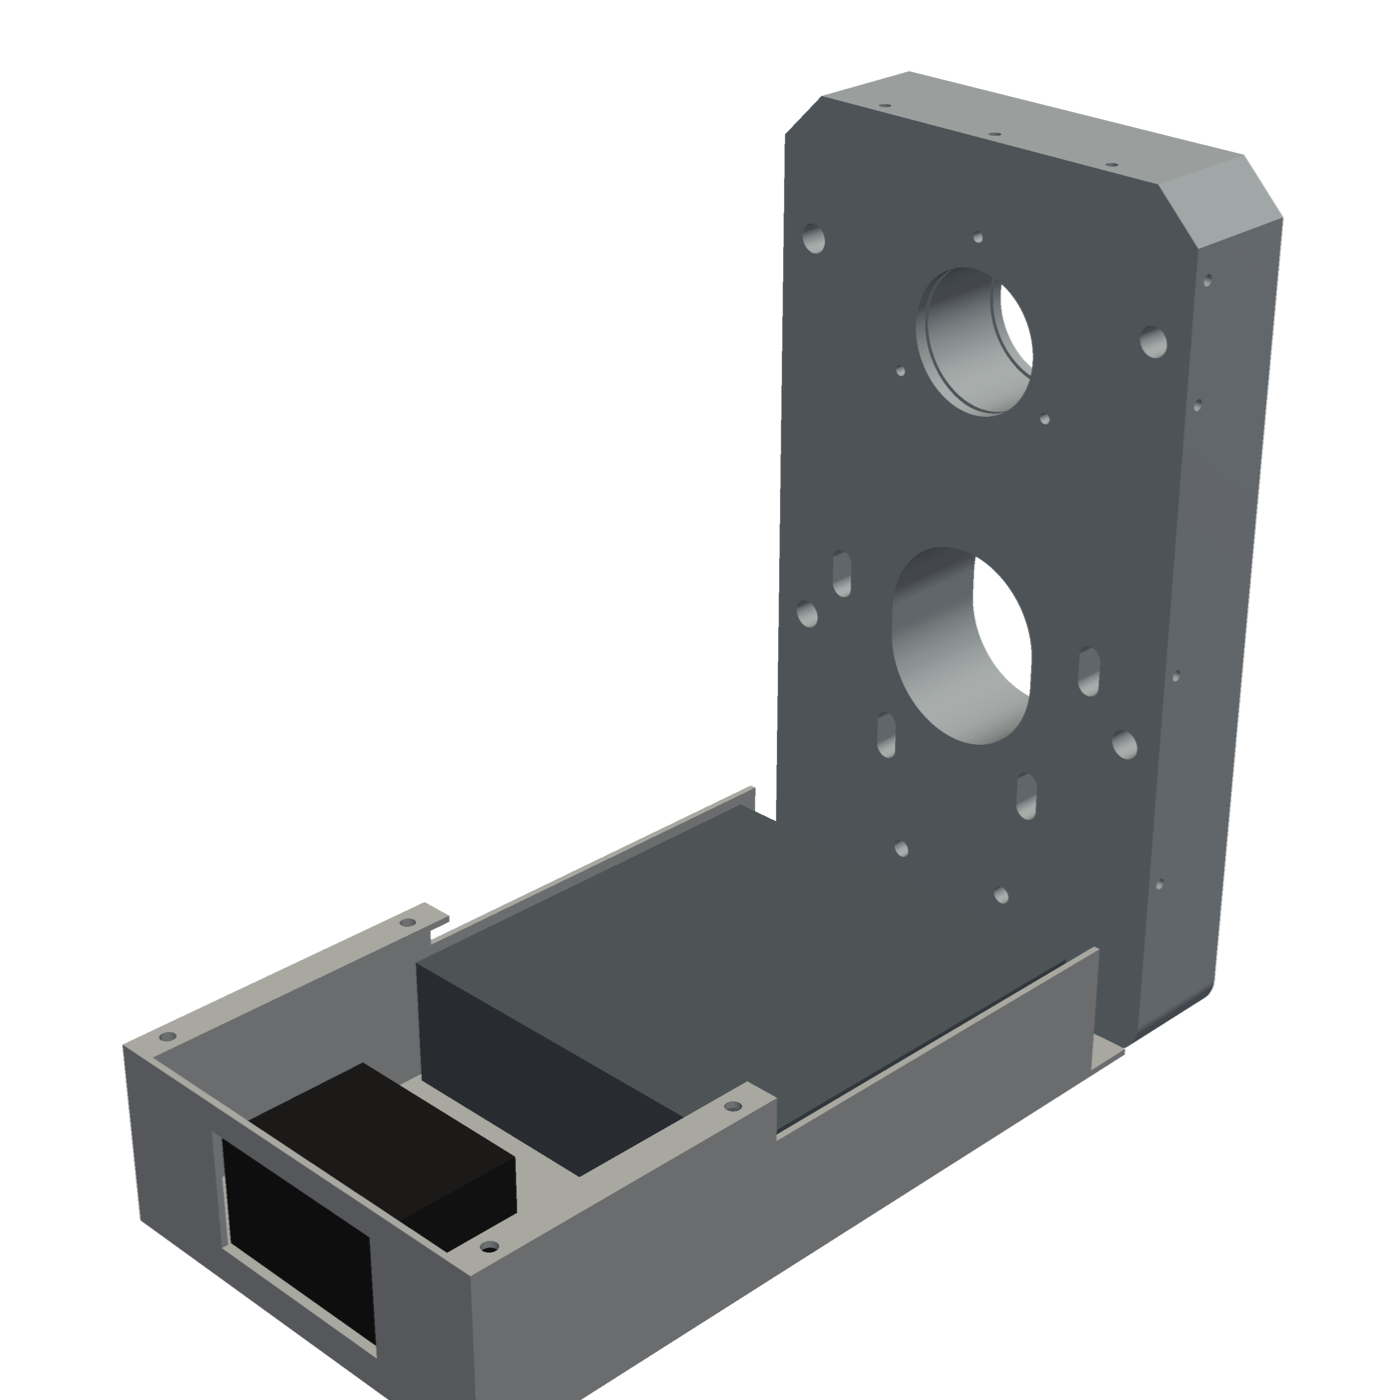
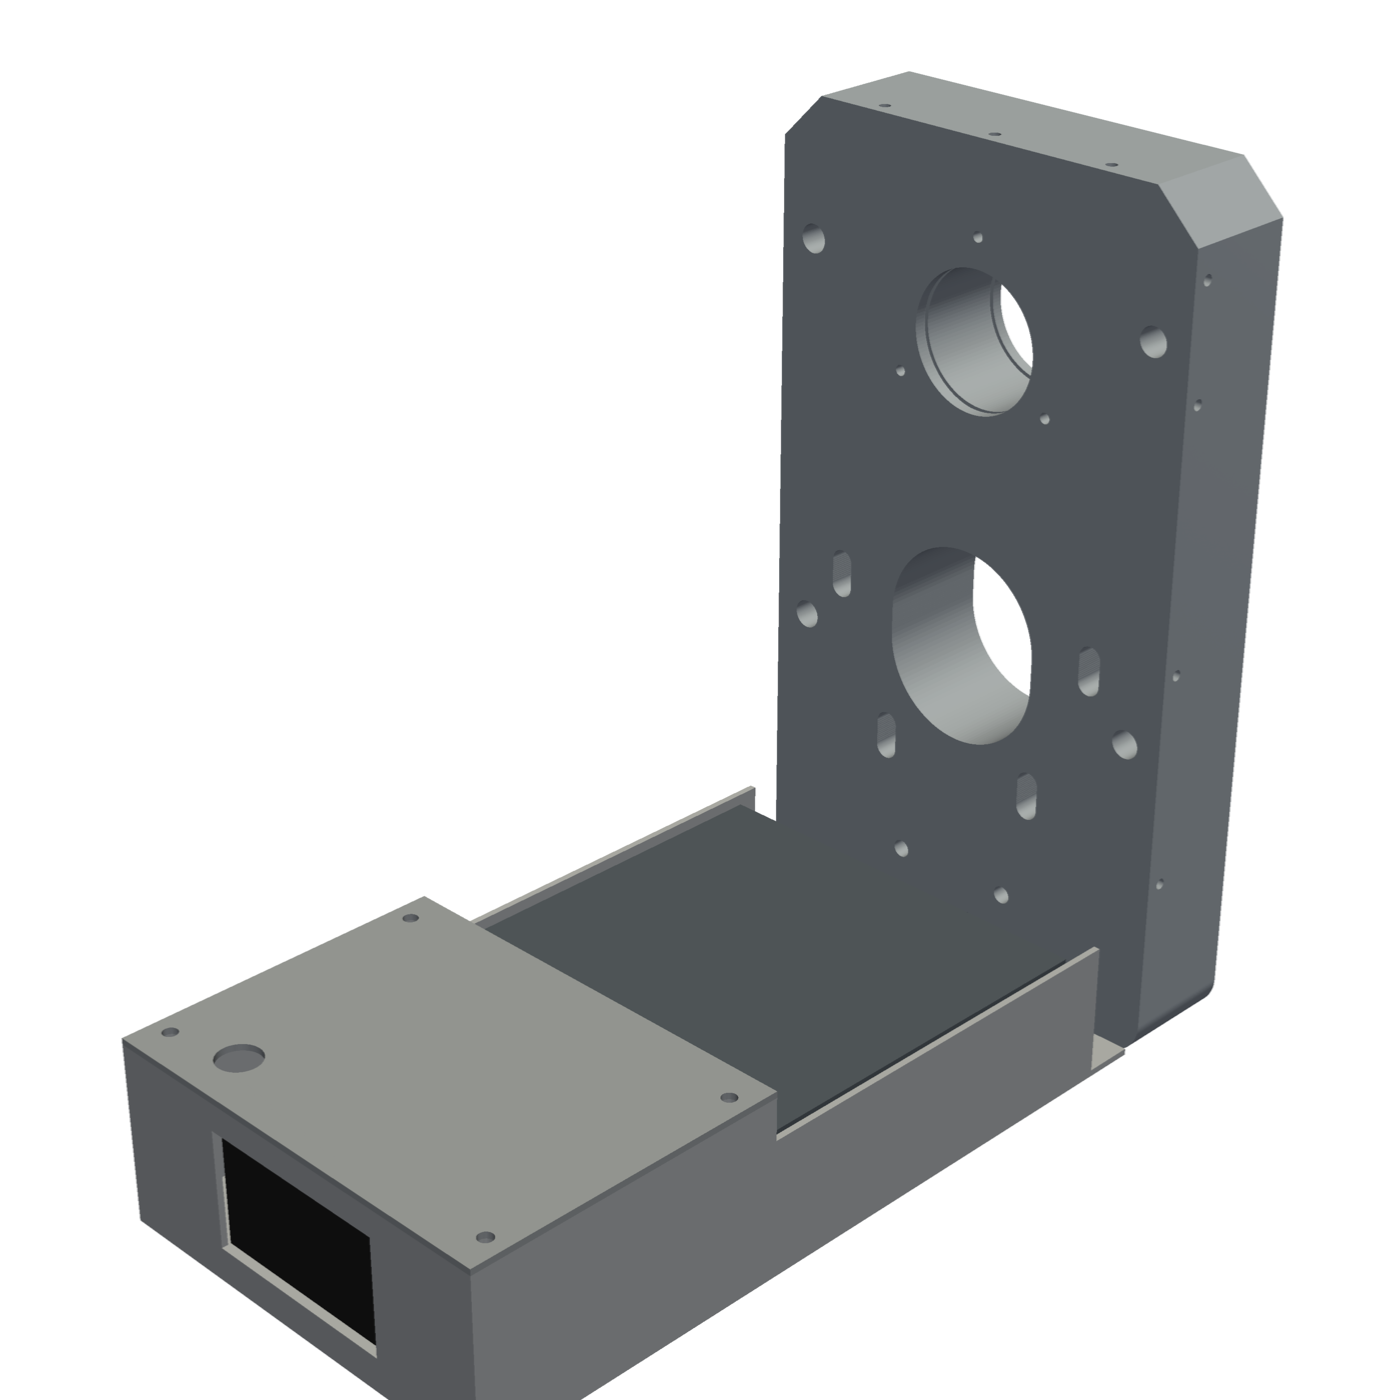
Mains tray: shell slides on over the PSU screw heads (groove), terminal zone closed toward the PSU
- Floor pockets -> one 7 mm groove along W open to the shell's rim; ribs 0.3 below the tray
- Lid's plate-side edge folded down to just above the PSU (closes the 101 x 10 window); wall flanges 10 mm for
  closed-end M3 rivnuts, starting past the fold
- check_feed_unit.py: shell slide-on sweep 0..200 mm against tray/PSU/module/screw heads, closure of the raised
  zone toward the PSU, mains-zone intrusion box up to the raised lid

Changed region(s): [[0.0921, 0.645, 0.5529, 0.9214]]

diff --git a/mechanical/feed_unit/feed_unit.py b/mechanical/feed_unit/feed_unit.py
@@ -383,6 +383,8 @@ R_IN = f.r_long - T                                 # inside radius of the long 
 R_BOTTOM = 8.5                                      # the two bottom long edges: tighter, so the mains tray fits the corners
 W_END_SCREW = W_END - f.r_end - 4.0                 # end hood screws: countersunk heads fully on the flat, not the chamfer
 TERM_TOP = TRAY_TOP + f.term_zone_rise     # tray top over the terminal/inlet zone (the motor is >= 7 mm above)
+TERM_W0 = f.psu_w0 + f.psu_l - 6           # where the raised terminal/inlet zone starts (over the PSU's terminal end)
+LID_FLANGE = 10.0                          # inward-folded wall flanges carrying the lid's M3 rivnuts
 INLET_Y = (PSU_BOT + TERM_TOP) / 2         # IEC inlet centre, in the tray's end face
 TRAY_HALF = f.psu_w / 2 + f.tray_side_gap + f.tray_t
 TRAY_W1 = W_END - f.r_end - 1.0   # tray end face (inlet panel): clear of the shell's inside end chamfer; the inlet
@@ -479,14 +481,14 @@ def mains_tray():
     the 36 V leads leave, through a grommet in the lid. No vents in the floor."""
     t, hw = f.tray_t, TRAY_HALF
     w0 = Z_PLATE_OUT
-    wz = f.psu_w0 + f.psu_l - 6                      # start of the raised terminal/inlet zone
+    wz = TERM_W0                                      # start of the raised terminal/inlet zone
     floor = bx(-hw, hw, TRAY_BOT, TRAY_BOT + t, w0, TRAY_W1)
     walls = None
     for sx in (-1, 1):
         x0, x1 = (-hw, -hw + t) if sx < 0 else (hw - t, hw)
         wall = bx(x0, x1, TRAY_BOT, TRAY_TOP, TRAY_WALL_W0, wz) + bx(x0, x1, TRAY_BOT, TERM_TOP, wz, TRAY_W1)
-        lx0, lx1 = (-hw, -hw + 8) if sx < 0 else (hw - 8, hw)          # flange folded inward at the top (lid screws)
-        lip = bx(lx0, lx1, TERM_TOP - t, TERM_TOP, wz, TRAY_W1 - t)
+        lx0, lx1 = (-hw, -hw + LID_FLANGE) if sx < 0 else (hw - LID_FLANGE, hw)   # folded inward at the top (lid screws)
+        lip = bx(lx0, lx1, TERM_TOP - t, TERM_TOP, wz + t, TRAY_W1 - t)   # starts past the lid's folded-down edge
         walls = wall + lip if walls is None else walls + wall + lip
     end = bx(-hw, hw, TRAY_BOT, TERM_TOP, TRAY_W1 - t, TRAY_W1)
     tray = floor + walls + end
@@ -498,12 +500,14 @@ def mains_tray():
     tray = tray - ycyl(6.0, TRAY_BOT - 1, TRAY_BOT + t + 1, MX, Z_PLATE_OUT + 4)    # drawbolt access (outside the walls)
     for xp, wp in psu_screws():                      # PSU base screws: M3 x 4 button head (ISO 7380) from below
         tray = tray - ycyl(1.7, TRAY_BOT - 1, TRAY_BOT + t + 1, xp, wp)
-    for xs in (-hw + 4, hw - 4):                     # lid screws: M3 into rivnuts in the folded lid flanges
+    for xs in (-hw + LID_FLANGE / 2, hw - LID_FLANGE / 2):   # lid screws: M3 into closed-end rivnuts in the flanges
         for ws in (wz + 8, TRAY_W1 - 8):
             tray = tray - ycyl(1.7, TERM_TOP - t - 1, TERM_TOP + 1, xs, ws)
     lid = bx(-hw, hw, TERM_TOP, TERM_TOP + t, wz, TRAY_W1)
+    # its -W edge is folded down to just above the PSU: closes the step between the low and the raised part
+    lid = lid + bx(-hw + t, hw - t, TRAY_TOP, TERM_TOP + t, wz, wz + t)
     lid = lid - ycyl(5.0, TERM_TOP - 1, TERM_TOP + t + 1, GROMMET[0], GROMMET[1])
-    for xs in (-hw + 4, hw - 4):
+    for xs in (-hw + LID_FLANGE / 2, hw - LID_FLANGE / 2):
         for ws in (wz + 8, TRAY_W1 - 8):
             lid = lid - ycyl(1.7, TERM_TOP - 1, TERM_TOP + t + 1, xs, ws)
     return tray, lid
@@ -676,9 +680,11 @@ def shell():
     fw, fh = f.inlet_flange
     s = s - bx(-fw / 2 - 1, fw / 2 + 1, INLET_Y - fh / 2 - 1, INLET_Y + fh / 2 + 1, W_END - T - 1, W_END + 1)
     for xr_ in (-30.0, 30.0):
-        s = s + bx(xr_ - 1.5, xr_ + 1.5, Y0 - G - 0.5, TRAY_BOT, TRAY_W1 - 60, TRAY_W1 - 6)
-    for xp, wp in psu_screws():                      # pockets for the PSU's M3 button heads under the tray floor
-        s = s - ycyl(3.5, Y0 - G - 1.5, Y0 + 0.1, xp, wp)
+        s = s + bx(xr_ - 1.5, xr_ + 1.5, Y0 - G - 0.5, TRAY_BOT - 0.3, TRAY_W1 - 60, TRAY_W1 - 6)
+    # groove for the PSU's M3 button heads under the tray floor, open to the shell's rim: the heads run along it
+    # while the shell slides on over the (already bolted) tray
+    xg = psu_screws()[0][0]
+    s = s - bx(xg - 3.5, xg + 3.5, Y0 - G - 1.5, Y0 + 0.1, W_SHELL0 - 1, max(w for _, w in psu_screws()) + 4)
     for xd in (-15.0, 15.0):                         # drains: coolant that gets in behind the inlet runs out
         s = s - ycyl(2.0, Y0 - T - 8, Y0 + 6, xd, W_END - T - 2.5)
     # programming ports, usable with the box closed (above the plugs, clear of the end rails):
@@ -940,14 +946,15 @@ strip along the upper front with their bodies reaching back over the PCB.
   1050/5052 sheet: floor, two side walls with inward-folded lid flanges over the terminal zone, end face, and two tabs
   bent up against the plate). Fold drawing: `out/mains_tray.step` (+ `mains_tray_lid.step`). It holds:
   - a Mean Well **LRS-75-36** (36 V / 2.1 A, 99 × 97 × 30, case 240A), screwed through the tray floor into its two
-    base holes: **M3 × 4 button head (ISO 7380)** — the case allows 3 mm of thread, the tray is 1.5 — whose heads sit in
-    Ø7 pockets in the printed floor. Terminals 1 L, 2 N, 3 FG, 4 −V, 5 +V, toward the inlet;
+    base holes: **M3 × 4 button head (ISO 7380)** — the case allows 3 mm of thread, the tray is 1.5 — whose heads run in
+    a 7 mm groove in the printed floor (open to the shell's rim, so the shell slides on over them). Terminals 1 L, 2 N, 3 FG, 4 −V, 5 +V, toward the inlet;
   - a **snap-in IEC C14 inlet with fuse and rocker switch** clipped into the tray's end face (cut-out
     {f.inlet_cut[0]} × {f.inlet_cut[1]}; pick one rated for a 1–2 mm panel). It sits 9 mm behind the printed end wall's opening, so
     coolant running down the end wall doesn't reach it. Fit an IEC retaining clip (V-lock or a wire bail) so the cord
     can't half-unplug on a vibrating table;
-  - a separate aluminium **lid** over the terminal/inlet zone: 4× M3 into M3 rivnuts (or press nuts) in the walls'
-    folded flanges; the screws also bond the lid to the tray. A Ø10 grommet in it: the **only** thing that leaves the
+  - a separate aluminium **lid** over the terminal/inlet zone, its plate-side edge folded down to just above the PSU
+    (so the zone is closed all round): 4× M3 into **closed-end** M3 rivnuts in the walls' 10 mm folded flanges (no
+    screw tips inside the mains zone); the screws also bond the lid to the tray. A Ø10 grommet in it: the **only** thing that leaves the
     tray is the 36 V pair (1 mm², 300/500 V insulation since it runs inside the mains tray, to J1).
   - **Fixing and earth:** the tray's two tabs bolt to the plate's outer face (2× M4 into tapped holes; checked against
     every other hole in the plate): that holds it

diff --git a/mechanical/tools/check_feed_unit.py b/mechanical/tools/check_feed_unit.py
@@ -114,7 +114,8 @@ print("  insert seats checked: %d" % sum(1 for j in FU.screw_joints() if j[4] ==
 # mains separation: nothing but the PSU and the inlet may enter the earthed tray's inside, and the wiring zone
 # between the PSU terminals and the inlet body (>= 35 mm) must be empty
 t, hw = FU.f.tray_t, FU.TRAY_HALF
-inside = FU.bx(-hw + t, hw - t, FU.TRAY_BOT + t, FU.TRAY_TOP, FU.TRAY_WALL_W0, FU.TRAY_W1 - t)   # the walled part
+inside = FU.bx(-hw + t, hw - t, FU.TRAY_BOT + t, FU.TRAY_TOP, FU.TRAY_WALL_W0, FU.TRAY_W1 - t) + \
+    FU.bx(-hw + t, hw - t, FU.TRAY_TOP, FU.TERM_TOP, FU.TERM_W0, FU.TRAY_W1 - t)                     # + raised zone
 mains_ok = ("mains_tray", "mains_tray_lid", "psu", "mains_inlet", "shell", "plate")
 for n in parts:
     if n in mains_ok or n.startswith("control_"):
@@ -167,6 +168,27 @@ m_top = (FU.TERM_TOP - t_) - (FU.INLET_Y + fh / 2)
 print("  inlet flange flat margin: bottom %.1f, top %.1f mm (need >= %.1f)" % (m_low, m_top, t_ + 1.5))
 if min(m_low, m_top) < t_ + 1.5:
     bad += 1
+# the raised terminal zone must be closed toward the PSU (lid's folded edge): the window between TRAY_TOP and TERM_TOP
+# at TERM_W0 must be >= 95 % metal
+win = FU.bx(-hw + t, hw - t, FU.TRAY_TOP, FU.TERM_TOP, FU.TERM_W0, FU.TERM_W0 + t)
+cov = (getattr(win & parts["mains_tray_lid"], "volume", 0) or 0) + (getattr(win & parts["mains_tray"], "volume", 0) or 0)
+print("  mains zone closed toward the PSU: %.0f %% metal" % (100 * cov / win.volume))
+if cov / win.volume < 0.95:
+    bad += 1
+# slide-on: the shell goes on along -W over the bolted tray, module and PSU screw heads (PCB/hood not fitted yet)
+inner = ["mains_tray", "mains_tray_lid", "psu", "mains_inlet", "motor", "clutch_cover", "clutch_field_housing",
+         "tension_block", "module_bolt_heads", "encoder", "encoder_disc", "encoder_posts", "encoder_coupling"]
+heads_c = FU.psu_screw_heads()
+worst = 0.0
+for dw in range(0, 205, 5):
+    sh = Pos(0, 0, dw) * parts["shell"]
+    v = sum(getattr(sh & parts[n], "volume", 0) or 0 for n in inner) + sum(getattr(sh & h, "volume", 0) or 0 for h in heads_c)
+    worst = max(worst, v)
+    if v > 1e-2:
+        print("  SLIDE-ON blocked %d mm from home: %.2f mm3" % (dw, v))
+        bad += 1
+        break
+print("  shell slide-on sweep 0..200 mm: worst overlap %.3f mm3" % worst)
 # print-bed fit (Prusa MK3S 250 x 210 x 210) in the STATED orientations, keeping 5 mm off each bed edge:
 #   shell standing on its end wall (print height = W extent), hood with the control strip face down (height = x extent)
 bb = parts["shell"].bounding_box(); hb = parts["hood"].bounding_box()

diff --git a/mechanical/feed_unit/FEED_UNIT.md b/mechanical/feed_unit/FEED_UNIT.md
@@ -79,14 +79,15 @@ strip along the upper front with their bodies reaching back over the PCB.
   1050/5052 sheet: floor, two side walls with inward-folded lid flanges over the terminal zone, end face, and two tabs
   bent up against the plate). Fold drawing: `out/mains_tray.step` (+ `mains_tray_lid.step`). It holds:
   - a Mean Well **LRS-75-36** (36 V / 2.1 A, 99 × 97 × 30, case 240A), screwed through the tray floor into its two
-    base holes: **M3 × 4 button head (ISO 7380)** — the case allows 3 mm of thread, the tray is 1.5 — whose heads sit in
-    Ø7 pockets in the printed floor. Terminals 1 L, 2 N, 3 FG, 4 −V, 5 +V, toward the inlet;
+    base holes: **M3 × 4 button head (ISO 7380)** — the case allows 3 mm of thread, the tray is 1.5 — whose heads run in
+    a 7 mm groove in the printed floor (open to the shell's rim, so the shell slides on over them). Terminals 1 L, 2 N, 3 FG, 4 −V, 5 +V, toward the inlet;
   - a **snap-in IEC C14 inlet with fuse and rocker switch** clipped into the tray's end face (cut-out
     47.5 × 27.8; pick one rated for a 1–2 mm panel). It sits 9 mm behind the printed end wall's opening, so
     coolant running down the end wall doesn't reach it. Fit an IEC retaining clip (V-lock or a wire bail) so the cord
     can't half-unplug on a vibrating table;
-  - a separate aluminium **lid** over the terminal/inlet zone: 4× M3 into M3 rivnuts (or press nuts) in the walls'
-    folded flanges; the screws also bond the lid to the tray. A Ø10 grommet in it: the **only** thing that leaves the
+  - a separate aluminium **lid** over the terminal/inlet zone, its plate-side edge folded down to just above the PSU
+    (so the zone is closed all round): 4× M3 into **closed-end** M3 rivnuts in the walls' 10 mm folded flanges (no
+    screw tips inside the mains zone); the screws also bond the lid to the tray. A Ø10 grommet in it: the **only** thing that leaves the
     tray is the 36 V pair (1 mm², 300/500 V insulation since it runs inside the mains tray, to J1).
   - **Fixing and earth:** the tray's two tabs bolt to the plate's outer face (2× M4 into tapped holes; checked against
     every other hole in the plate): that holds it
